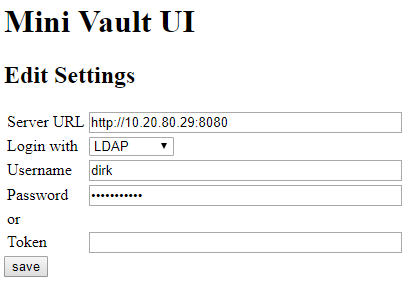
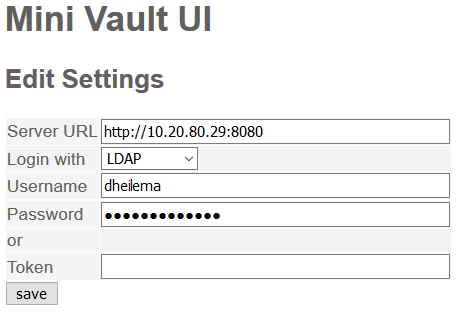
added CSS to make UI less ugly

diff --git a/vault-ui.go b/vault-ui.go
@@ -24,6 +24,14 @@ const (
 	headert string = `<!DOCTYPE html><html><head>
 	<meta charset="UTF-8">
 	<title>Mini Vault UI</title>
+	<style>
+	body {font-family: sans-serif; color: #606060;}
+	table {text-align: left; border-spacing: 1px;}
+	th, td		{padding: 1px;  }
+	th {background-color: #F5C9B9;}
+	td {background-color: #f4f4f4;}
+	#button   	{background-color: #dddddd; color: #000000; text-decoration: none;}
+	</style>
 	</head>
 	<body>`
 	footert string = `</body></html>`
@@ -35,7 +43,7 @@ const (
 				<tr><td><a href="/list/{{$l}}/{{.}}">{{.}}/</a></td><td></td></tr>
 			{{end}}
 			{{range .Secrets}}
-				<tr><td><a href="/read/{{$l}}/{{.}}">{{.}}</a></td><td>[<a href="/delete/{{$l}}/{{.}}">del</a>]</td></tr>
+				<tr><td><a href="/read/{{$l}}/{{.}}">{{.}}</a></td><td><a id="button" href="/delete/{{$l}}/{{.}}">✀ del</a></td></tr>
 			{{end}}
 		<tr>
 			<form action="/new/{{$l}}">
@@ -43,12 +51,12 @@ const (
 		</tr>
 		</form>
 		</table>
-		<br><br>[<a href="/list/{{.Up}}">back</a>] [<a href="/setting/list/{{$l}}">Settings</a>]
+		<br><br><a id="button" href="/list/{{.Up}}">⇐ back</a> <a id="button" href="/setting/list/{{$l}}">Settings</a>
 		{{template "footer"}}`
 	indext string = `{{template "header"}}
 		<h1>Mini Vault UI</h1>
 		<a href="/list/secret">/list/secret</a><br>
-		[<a href="/setting/">Settings</a>]
+		<a id="button" href="/setting/">Settings</a>
 		{{template "footer"}}`
 	readt string = `{{template "header"}}
 		<h1>vault read {{.Location}}</h1>
@@ -68,13 +76,13 @@ const (
 		  <td><input type="text" name="vk" size=40></input></td>
 		</tr>
 		</table>
-		[<a href="/list/{{.Up}}">back</a>]  <button>write</button>
+		<a id="button" href="/list/{{.Up}}">⇐ back</a> <button>write</button>
 		</form>
 		<h2>As JSON</h2>
 		<form action="/writejson/{{$l}}">
 		<textarea name="json" rows="5" cols="90">{{.JSON}}</textarea>
 		<br>
-		[<a href="/list/{{.Up}}">back</a>] <button>write json</button>
+		<a id="button" href="/list/{{.Up}}">⇐ back</a> <button>write json</button>
 		</form>
 		{{template "footer"}}`
 	settingt string = `{{template "header"}}
